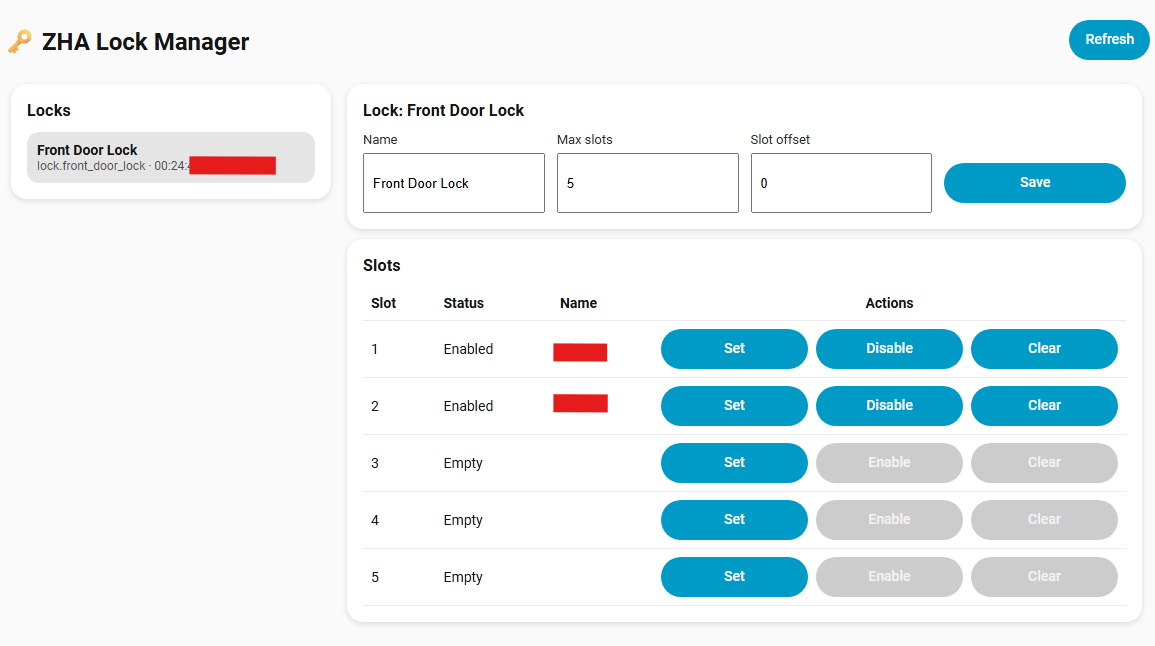
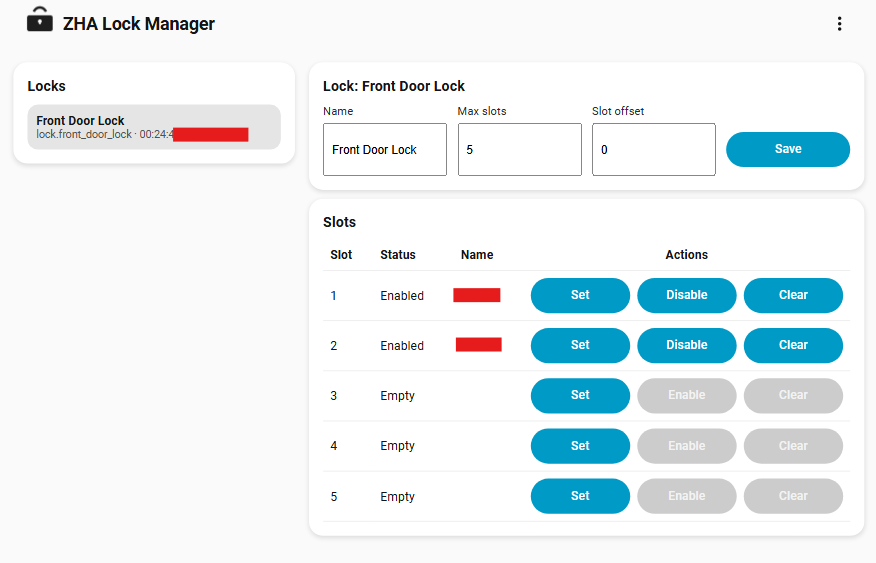
v0.3.8

diff --git a/custom_components/zha_lock_manager/frontend/zha_lock_manager_panel.js b/custom_components/zha_lock_manager/frontend/zha_lock_manager_panel.js
@@ -35,7 +35,7 @@ class ZhaLockManagerPanel extends LitElement {
   }
 
   get isMobile() {
-    return this.narrow || window.innerWidth <= 820;
+    return this.narrow || window.innerWidth <= 1200;
   }
 
   async _ws(type, payload = {}) {
@@ -213,20 +213,28 @@ class ZhaLockManagerPanel extends LitElement {
     `;
   }
 
+  _menuAction(e) {
+    // e.detail.index or e.detail.item may be present depending on MWC version
+    const item = e.detail.item || e.target.selected; // defensive
+    const value = item?.getAttribute?.("value") || item?.value;
+    if (value === "refresh") this._refresh();
+  }
+
   render() {
     const lock = this._lock;
     return html`
       <ha-app-layout>
         <app-header slot="header" fixed>
-          <!-- Row 1: hamburger only -->
-          <app-toolbar class="menubar">
-            <ha-menu-button .hass=${this.hass} .narrow=${this.isMobile}></ha-menu-button>
-          </app-toolbar>
-          <!-- Row 2: title left, refresh right -->
           <app-toolbar class="titlebar">
+            <ha-menu-button .hass=${this.hass} .narrow=${this.isMobile}></ha-menu-button>
             <img class="brand" src=${this._brandIcon} alt="ZHA Lock Manager icon" />
             <div class="title" main-title>ZHA Lock Manager</div>
-            <ha-button class="refresh" @click=${() => this._refresh()} ?disabled=${this._busy}>Refresh</ha-button>
+            <ha-button-menu corner="BOTTOM_START" @action=${(e) => this._menuAction(e)} ?disabled=${this._busy}>
+              <mwc-icon-button slot="trigger" title="Menu">
+                <ha-icon icon="hass:dots-vertical"></ha-icon>
+              </mwc-icon-button>
+              <mwc-list-item value="refresh">Refresh</mwc-list-item>
+            </ha-button-menu>
           </app-toolbar>
         </app-header>
 
@@ -296,10 +304,10 @@ class ZhaLockManagerPanel extends LitElement {
       :host { --zlm-control-height: 44px; }
 
       /* Header split into two toolbars */
-      .menubar { min-height: 56px; padding: 0 8px; }
       .titlebar { min-height: 56px; padding: 0 20px; display: flex; align-items: center; gap: 8px; }
-      .brand { width: 44px; height: 44px; border-radius: 6px; flex: 0 0 auto; margin-bottom: 12px; }
-      .title { font-size: 24px; font-weight: 700; flex: 1 1 auto; white-space: nowrap; overflow: hidden; text-overflow: ellipsis; }
+      .titlebar mwc-icon-button ha-icon { display: inline-block; transform: translateY(-2px); }
+      .brand { width: 36px; height: 36px; border-radius: 6px; flex: 0 0 auto; margin-bottom: 12px; }
+      .title { font-size: 20px; font-weight: 700; flex: 1 1 auto; white-space: nowrap; overflow: hidden; text-overflow: ellipsis; }
       .refresh { margin-left: auto; white-space: nowrap; }
 
       /* Layout */

diff --git a/README.md b/README.md
@@ -1,10 +1,15 @@
 # ZHA Lock Manager
 
+[![HACS](https://img.shields.io/badge/default-grey?logo=homeassistantcommunitystore&logoColor=white)][hacs-repo]
+[![HACS installs](https://img.shields.io/github/downloads/dmoralesdev/zha_lock_manager/latest/total?label=installs&color=blue)][hacs-repo]
+[![Version](https://img.shields.io/github/v/release/dmoralesdev/zha_lock_manager)][releases]
+![Downloads](https://img.shields.io/github/downloads/dmoralesdev/zha_lock_manager/total)
+
 Manage keypad codes for Zigbee locks on Home Assistant through ZHA.  
 Includes a simple side panel to view and edit codes, per lock settings, and an optional global Alarmo integration that disarms on successful keypad unlock.
 
 <p align="center">
-  <img src="https://raw.githubusercontent.com/dmoralesdev/zha_lock_manager/main/custom_components/zha_lock_manager/frontend/zha_lock_manager.png" alt="Zigbee Locks side panel screenshot" width="646">
+  <img src="https://raw.githubusercontent.com/dmoralesdev/zha_lock_manager/main/custom_components/zha_lock_manager/frontend/zha_lock_manager.png" alt="Zigbee Locks side panel screenshot" width="876">
 </p>
 
 ## Requirements
@@ -14,9 +19,8 @@ Includes a simple side panel to view and edit codes, per lock settings, and an o
 - HACS for easy install, or manual copy to `config/custom_components/zha_lock_manager`
 
 ## What this integration provides
-
-- A Home Assistant integration entry with a config flow  
-- A side panel named **Zigbee Locks** for daily code management  
+ 
+- A side panel named **Zigbee Locks** for code management  
 - Support for multiple locks, selectable at install time and later from Options  
 - Per lock settings managed in the panel:
   - Name
@@ -54,23 +58,37 @@ Includes a simple side panel to view and edit codes, per lock settings, and an o
 
 ### HACS
 
-1. In HACS, add this repository, then install **ZHA Lock Manager**.
+Installation through [HACS][hacs] is the preferred installation method.
 
-[![Open your Home Assistant and add this integration](https://my.home-assistant.io/badges/config_flow_start.svg)](https://my.home-assistant.io/redirect/config_flow_start/?domain=zha_lock_manager)
+[![Open the ZHA Lock Manager integration in HACS][hacs-badge]][hacs-open]
 
-2. Restart Home Assistant.
+1. Click the button above or go to HACS &rarr; Integrations &rarr; search for
+   "ZHA Lock Manager" &rarr; select it.
+1. Press _DOWNLOAD_.
+1. Select the version (it will auto select the latest) &rarr; press _DOWNLOAD_.
+1. Restart Home Assistant then continue to [the setup section](#setup).
 
-### Manual
+### Manual Download
 
-1. Copy `custom_components/zha_lock_manager` into your HA `config/custom_components` folder.
-2. Restart Home Assistant.
+1. Go to the [release page][releases] and download the zip file attached
+   to the latest release.
+1. Unpack the zip file and move `custom_components/zha_lock_manager` to the following
+   directory of your Home Assistant configuration: `/config/custom_components/`.
+1. Restart Home Assistant then continue to [the setup section](#setup).
 
 ## Setup
 
-1. Go to **Settings**, **Devices and services**, **Integrations**.
-2. Click **Add integration**, search for **ZHA Lock Manager**.
-3. Select one or more ZHA lock entities to manage. You can add or remove locks later in Options.
-4. Finish the flow. A **Zigbee Locks** sidebar panel will appear.
+Open your Home Assistant instance and start setting up by following these steps:
+
+1. Navigate to "Settings" &rarr; "Devices & Services"
+1. Click "+ Add Integration"
+1. Search for and select &rarr; "ZHA Lock Manager"
+
+Or you can use the My Home Assistant Button below.
+
+[![Add Integration](https://my.home-assistant.io/badges/config_flow_start.svg)][config-flow-start]
+
+Follow the instructions to configure the integration.
 
 ## Options
 
@@ -99,7 +117,7 @@ Open the **Zigbee Locks** panel from the sidebar.
 ### Per lock fields
 
 - **Max slots**: how many numeric slots you want to manage in the panel. This does not change the lock hardware limit.  
-- **Slot offset**: offset to apply when talking to the lock. Set this if your lock reports a `code_slot` that is shifted from the numbers you prefer to see in the UI.
+- **Slot offset**: offset to apply when talking to the lock. Set this if your lock reports a `code_slot` that is shifted from the numbers you see in the UI.
 
 ## Data storage and security
 
